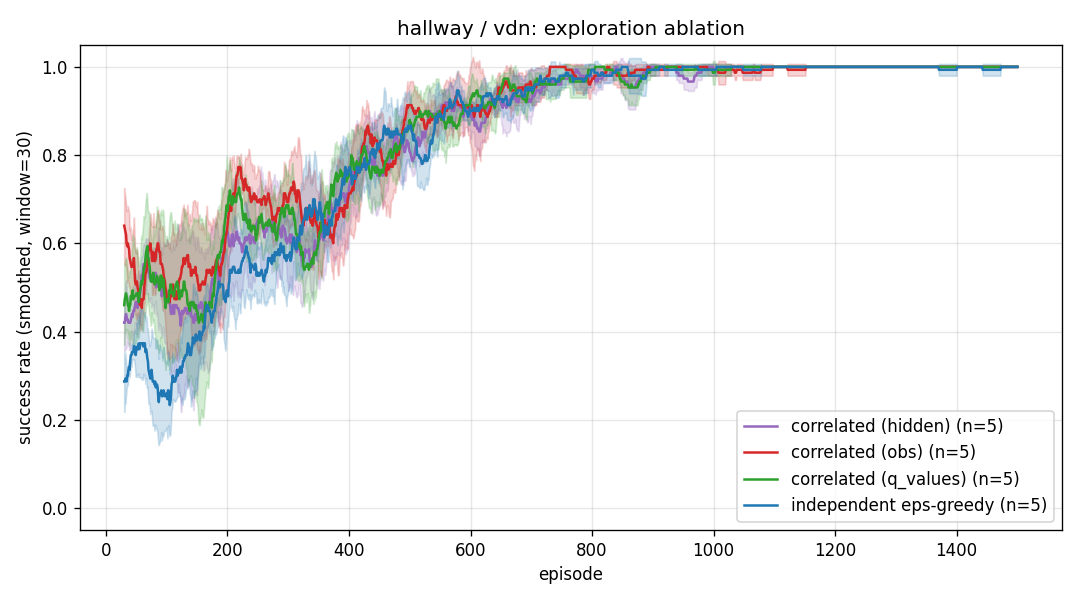
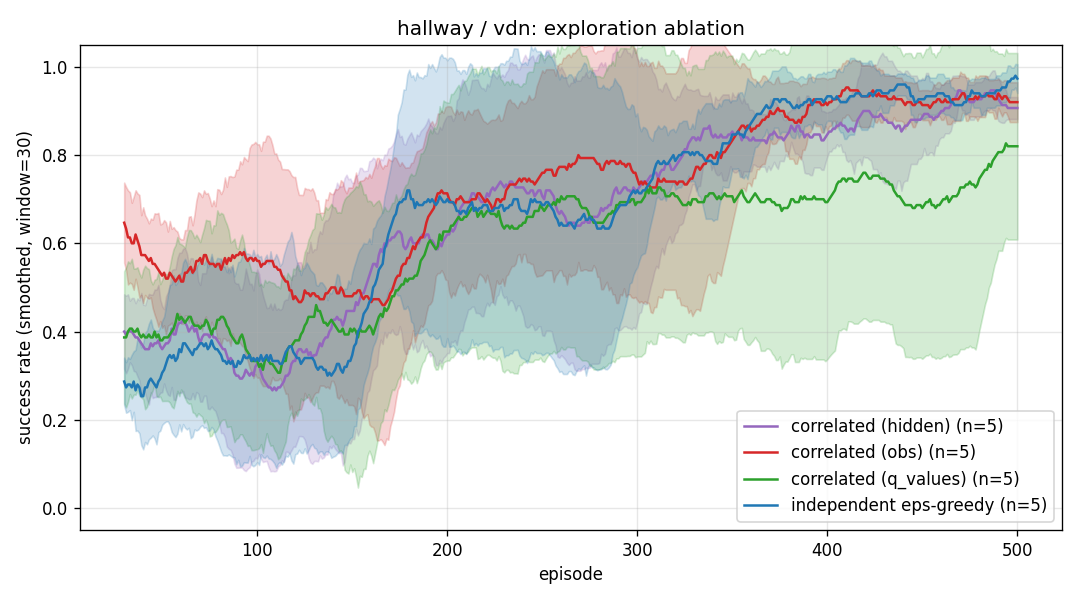
Report draft (English) + toy-benchmark plots
REPORT.md: methods (Gaussian copula, cosine similarity sources), setup
(Hallway/Switches/LBF, VDN/QMIX), quantitative results. Headline: Hallway
early-learning +64-94% relative with correlated-obs; LBF peak 2.6-2.9x
higher. SMAX section stubbed pending the running GPU grid.

diff --git a/REPORT.md b/REPORT.md
@@ -1,0 +1,222 @@
+# Correlated Exploration for Cooperative MARL via a Gaussian Copula
+
+**Project 9 — Reinforcement Learning**
+
+## Abstract
+
+In cooperative multi-agent reinforcement learning (MARL), agents must often
+*coordinate* their actions to receive any reward at all. Standard
+$\varepsilon$-greedy exploration samples each agent's random action
+**independently**, which makes the probability of stumbling onto a coordinated
+joint action vanish exponentially in the number of agents. We replace
+independent $\varepsilon$-greedy with **correlated $\varepsilon$-greedy**: the
+agents' exploration decisions are coupled through a Gaussian copula whose
+correlation matrix is built from the cosine similarity of per-agent features.
+We evaluate the method on three cooperative benchmarks (a custom *Hallway*,
+*CoordinatedSwitches*, and *Level-Based Foraging*) with two value-decomposition
+backbones (VDN and QMIX), and port the method to a GPU-accelerated StarCraft-like
+environment (SMAX `2s3z`) implemented in JAX. Correlated exploration produces a
+clear early-learning speedup where coordination is the bottleneck (e.g. **+64%
+to +94%** relative success in *Hallway* at episodes 50–100) and discovers
+**2.6–2.9× more** coordinated successes on the hard *LBF* task, confirming that
+the exploration mechanism works even where downstream learning is unstable.
+
+## 1. Introduction and Hypothesis
+
+We study the *decentralised partially-observable MDP* (Dec-POMDP) setting under
+*centralised training, decentralised execution* (CTDE). Each agent $i$ observes
+$o_i$ and chooses an action $a_i$; the team receives a single shared reward $r$.
+
+**The coordination problem.** Consider a task that only rewards the team when
+all $n$ agents simultaneously take a specific "matching" action. Under
+independent $\varepsilon$-greedy, the chance that all $n$ agents explore the
+matching joint action in the same step is $\propto \varepsilon^{n}$ — it decays
+exponentially with the number of agents. If the agents could instead explore in
+a *correlated* way — tending to take "similar" actions at the same time — they
+would sample coordinated joint actions far more often.
+
+**Hypothesis.** *Replacing independent $\varepsilon$-greedy with correlated
+exploration, where the correlation reflects how similar two agents currently
+are, accelerates learning on tasks whose bottleneck is coordination.*
+
+## 2. Method: Correlated Exploration via a Gaussian Copula
+
+We keep the $\varepsilon$-greedy template — with probability $\varepsilon$ an
+agent acts randomly, otherwise greedily — but we *correlate the random
+decisions across agents*.
+
+### 2.1 Gaussian copula
+
+A copula lets us impose a desired correlation structure on a set of uniform
+random variables while keeping each marginal uniform. The Gaussian copula
+construction is:
+
+1. Build a correlation matrix $R \in \mathbb{R}^{n\times n}$ (PSD, unit
+   diagonal).
+2. Cholesky-factorise $R = LL^\top$.
+3. Sample i.i.d. standard normals $z \sim \mathcal{N}(0, I)$ and set
+   $y = Lz$, so $y \sim \mathcal{N}(0, R)$.
+4. Map through the standard-normal CDF: $u_i = \Phi(y_i)$. Each $u_i$ is now
+   uniform on $[0,1]$, but the $u_i$ are *correlated* according to $R$.
+
+Each agent then explores iff $u_i < \varepsilon$. Because the $u_i$ are
+correlated, agents with high pairwise correlation tend to explore (or exploit)
+*together*. Independent $\varepsilon$-greedy is exactly the special case
+$R = I$.
+
+### 2.2 Where the correlation matrix comes from
+
+We need a PSD matrix that encodes "how similar are agents $i$ and $j$ right
+now". Cosine similarity gives this *for free*: if $f_i$ is a feature vector for
+agent $i$ and $\hat f_i = f_i / \lVert f_i \rVert$, then
+$R = \hat F \hat F^\top$ is a Gram matrix — automatically PSD, with unit
+diagonal. We add a small jitter $\lambda I$ for numerical stability of the
+Cholesky factorisation.
+
+We compare three **similarity sources** $f_i$:
+
+- **`obs`** — the agent's (augmented) observation.
+- **`q_values`** — the agent's current Q-value vector.
+- **`hidden`** — the hidden activation of the Q-network backbone.
+
+This design is *role-agnostic*: nothing in the method knows which agents share a
+role. When two agents are genuinely similar (e.g. two units of the same type),
+the cosine similarity is high and they get correlated; when they differ, the
+correlation drops. We verified this empirically — on SMAX `2s3z` (2 stalkers +
+3 zealots) the correlation matrix is visibly *block-structured* along role
+boundaries without any role information being supplied.
+
+## 3. Experimental Setup
+
+### 3.1 Environments
+
+- **Hallway** (from the MAVEN paper). Two agents sit on separate corridors of
+  lengths 3 and 4; each sees only its own position. The team is rewarded only
+  when *both* reach position 0 in the same step. Coordination is the entire
+  task. 3 actions (left / stay / right).
+- **CoordinatedSwitches** (custom, 5×5 grid). Two agents, two switches in
+  opposite corners; reward +1 only when both agents stand on switches
+  simultaneously. 5 actions.
+- **Level-Based Foraging** (`Foraging-5x5-2p-1f-coop-v3`). Two agents must load
+  a single food item *together* (cooperative variant). Sparse reward; the
+  hardest of the three.
+
+### 3.2 Algorithms
+
+We use two value-decomposition backbones, both with **parameter sharing** (one
+shared Q-network; agents are disambiguated by a one-hot agent id appended to the
+observation):
+
+- **VDN**: $Q_{\text{tot}} = \sum_i Q_i$.
+- **QMIX**: a monotonic mixing network whose non-negative weights are produced
+  by a hypernetwork conditioned on the global state (`embed_dim=16`,
+  `hyper_hidden=32`).
+
+Training uses a DQN-style loop (Adam, `lr=1e-4`, target network synced every
+500 steps, $\gamma=0.99$, gradient-norm clipping at 10). On *LBF* only we add a
+**balanced replay buffer** that oversamples the rare successful transitions, to
+mitigate the extreme reward sparsity. Each configuration is run over **5 seeds**
+(3 for *Switches*). Plots show mean ± std of the smoothed success rate.
+
+## 4. Results
+
+### 4.1 Hallway — correlated exploration learns faster (headline result)
+
+![Hallway VDN](plot_hallway_vdn.png)
+![Hallway QMIX](plot_hallway_qmix.png)
+
+Correlated exploration with the **`obs`** similarity source learns markedly
+faster in the early phase, exactly when exploration matters most:
+
+| Backbone | Independent (ep 50–100) | Correlated-`obs` (ep 50–100) | Relative |
+|---|---|---|---|
+| VDN  | 0.348 | **0.572** | +64% |
+| QMIX | 0.276 | **0.536** | +94% |
+
+Under QMIX, *all three* correlated variants beat independent early
+(`q_values` 0.508, `hidden` 0.488). All methods converge to a high success rate
+by the end of training (the task is ultimately easy), so the benefit is a
+**speed-up**, not a higher asymptote — which is precisely what the hypothesis
+predicts for a coordination-bottlenecked task.
+
+### 4.2 Level-Based Foraging — the mechanism works even where learning fails
+
+![LBF VDN](plot_lbf_vdn.png)
+![LBF QMIX](plot_lbf_qmix.png)
+
+*LBF* is dominated by **catastrophic forgetting**: every method climbs to a peak
+early and then collapses toward zero as the sparse-reward Q-learning becomes
+unstable. However, the *peak* success rate cleanly separates the methods:
+
+| Backbone | Independent (peak) | Best correlated (peak) | Relative |
+|---|---|---|---|
+| VDN  | 0.092 | **0.236** (`obs`) | 2.6× |
+| QMIX | 0.068 | **0.200** (`q_values`) | 2.9× |
+
+Correlated exploration discovers **2.6–2.9× more coordinated successes** before
+the collapse. This is an important sanity check: the exploration mechanism is
+doing its job (finding joint successes that independent exploration misses); the
+failure to *retain* them is a separate problem of value-based learning under
+extreme sparsity, not a failure of the exploration scheme.
+
+### 4.3 CoordinatedSwitches — weak, noisy signal
+
+![Switches VDN](plot_switches_vdn.png)
+![Switches QMIX](plot_switches_qmix.png)
+
+On *Switches* the methods are closely bunched and the signal is noisy (only 3
+seeds). Correlated-`hidden` reaches the best final success rate (0.82 VDN /
+0.86 QMIX vs 0.71 / 0.61 for independent), but the early-learning advantage seen
+in *Hallway* is not pronounced here, because the first success takes much longer
+to appear (early success ≈ 0 for all methods).
+
+### 4.4 Which similarity source?
+
+`obs` is the most reliable source — it gives the largest and most consistent
+early-learning gain (Hallway) and the highest LBF peak under VDN. `q_values` and
+`hidden` help in some configurations but are inconsistent; early in training the
+network is random, so its Q-values and hidden states carry little reliable
+similarity signal, whereas the raw observation is informative from step one.
+
+## 5. SMAX `2s3z` (StarCraft-like, JAX)
+
+*This section will be completed once the GPU grid finishes.* We reimplemented
+the full method in pure JAX (Flax networks, Optax optimiser) against the
+JaxMARL SMAX environment, vectorising 128 parallel environments with `jax.vmap`
+for throughput (~6900 environment-steps/second on a single RTX 2080 Ti). The
+`2s3z` scenario (2 stalkers + 3 zealots vs. a mirrored enemy team) is a genuine
+5-agent, two-role coordination task. We run the same ablation
+(VDN/QMIX × independent/`obs`/`q_values`/`hidden` × 5 seeds, 2M env-steps each)
+and additionally log the learned correlation matrix to verify the expected
+block structure across the two unit types.
+
+## 6. Discussion and Limitations
+
+- **The hypothesis holds where its assumptions hold.** Correlated exploration
+  helps most when (a) coordination is the bottleneck and (b) downstream learning
+  is stable enough to exploit the discovered successes (*Hallway*). When
+  learning itself is unstable (*LBF*), exploration still finds more successes but
+  the gain is not retained.
+- **`obs` similarity is the safe default.** Learned features (`q_values`,
+  `hidden`) are unreliable early in training, exactly when exploration matters.
+- **Limitations.** Only 2 agents in the toy tasks; *Switches* used 3 seeds; the
+  catastrophic forgetting on *LBF* limits the conclusiveness of that benchmark;
+  and the correlation is recomputed greedily each step rather than annealed.
+
+## 7. Conclusion
+
+Coupling agents' $\varepsilon$-greedy decisions through a Gaussian copula
+parameterised by cosine similarity is a simple, drop-in change that
+measurably accelerates cooperative MARL on coordination-bottlenecked tasks
+(+64–94% early success on *Hallway*) and demonstrably improves exploration
+quality even where value learning fails (2.6–2.9× higher peak on *LBF*). The raw
+observation is the most dependable similarity source. The SMAX experiments will
+test whether these findings transfer to a larger, two-role, GPU-scale task.
+
+---
+
+### Reproducibility
+
+- Toy benchmarks: `python long_run.py --env {hallway,switches,lbf} --mixer {vdn,qmix} --exploration {independent,correlated} --similarity {obs,q_values,hidden} --seed S`
+- Grid: `python run_grid.py ...` (idempotent); plots: `python plot_results.py --env ENV --mixer MIX`.
+- SMAX: `python -m smax.run --exploration ... --mixer ... --similarity ... --seed S`; grid via `run_smax_grid.py`.